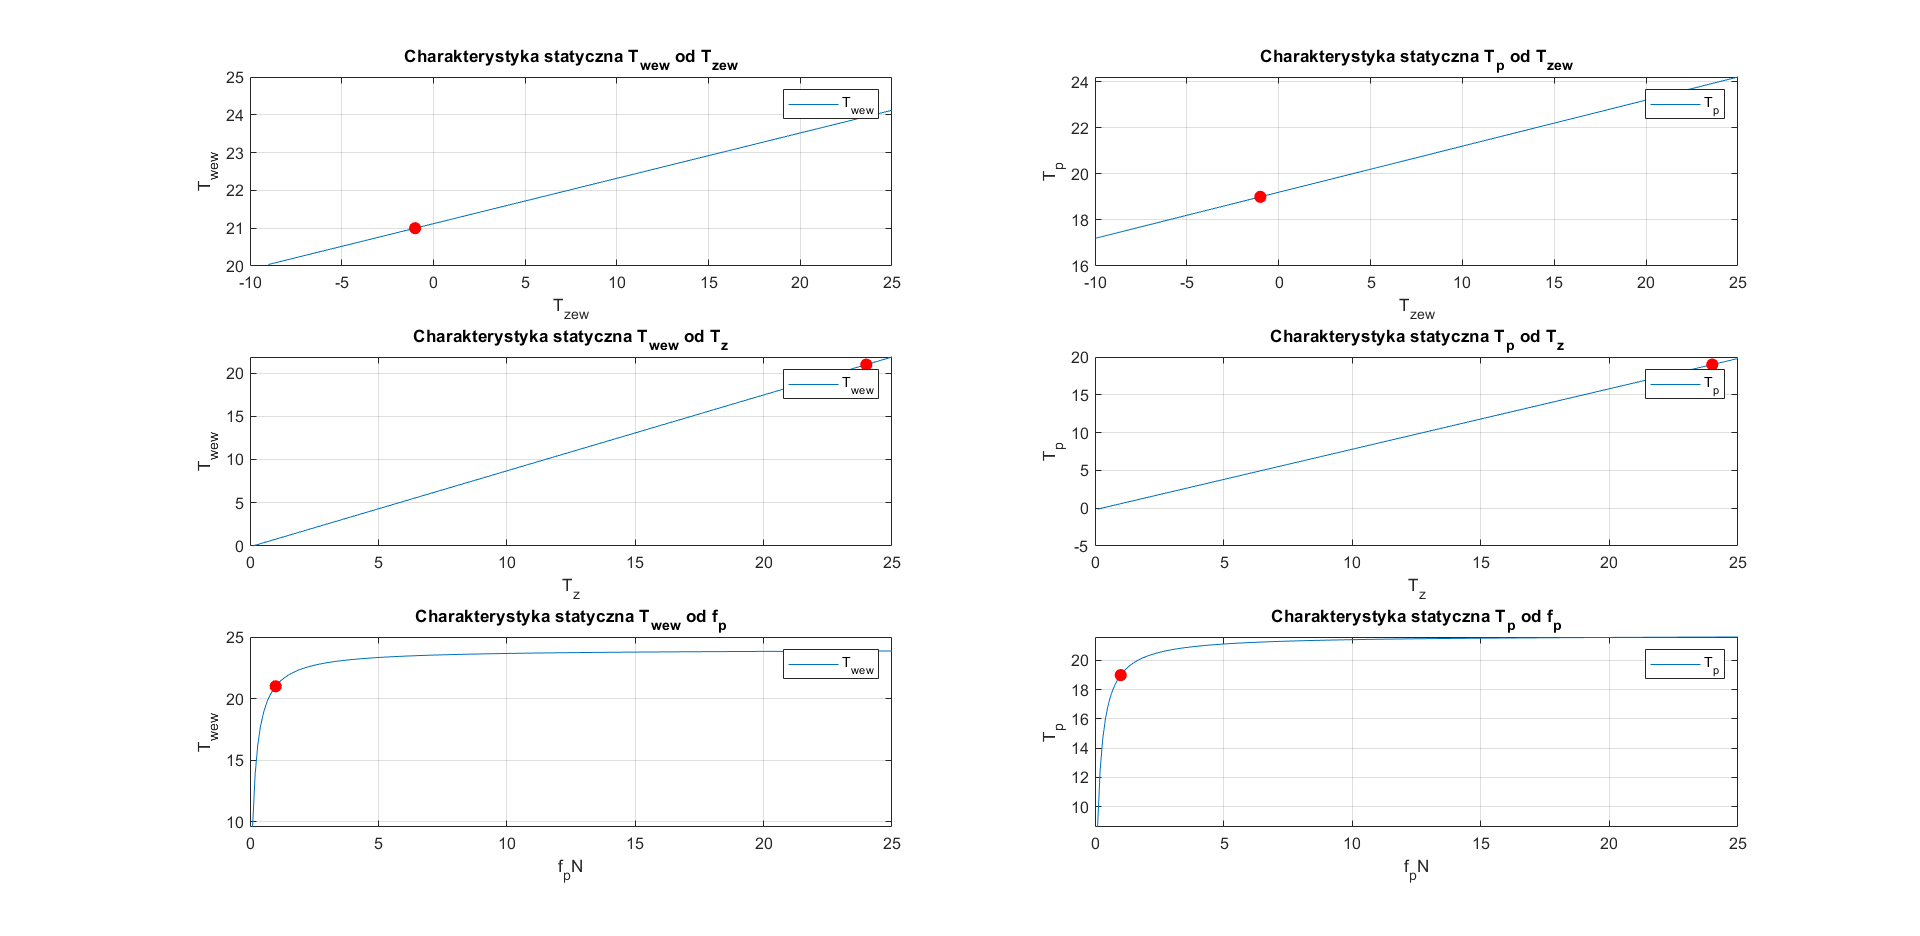
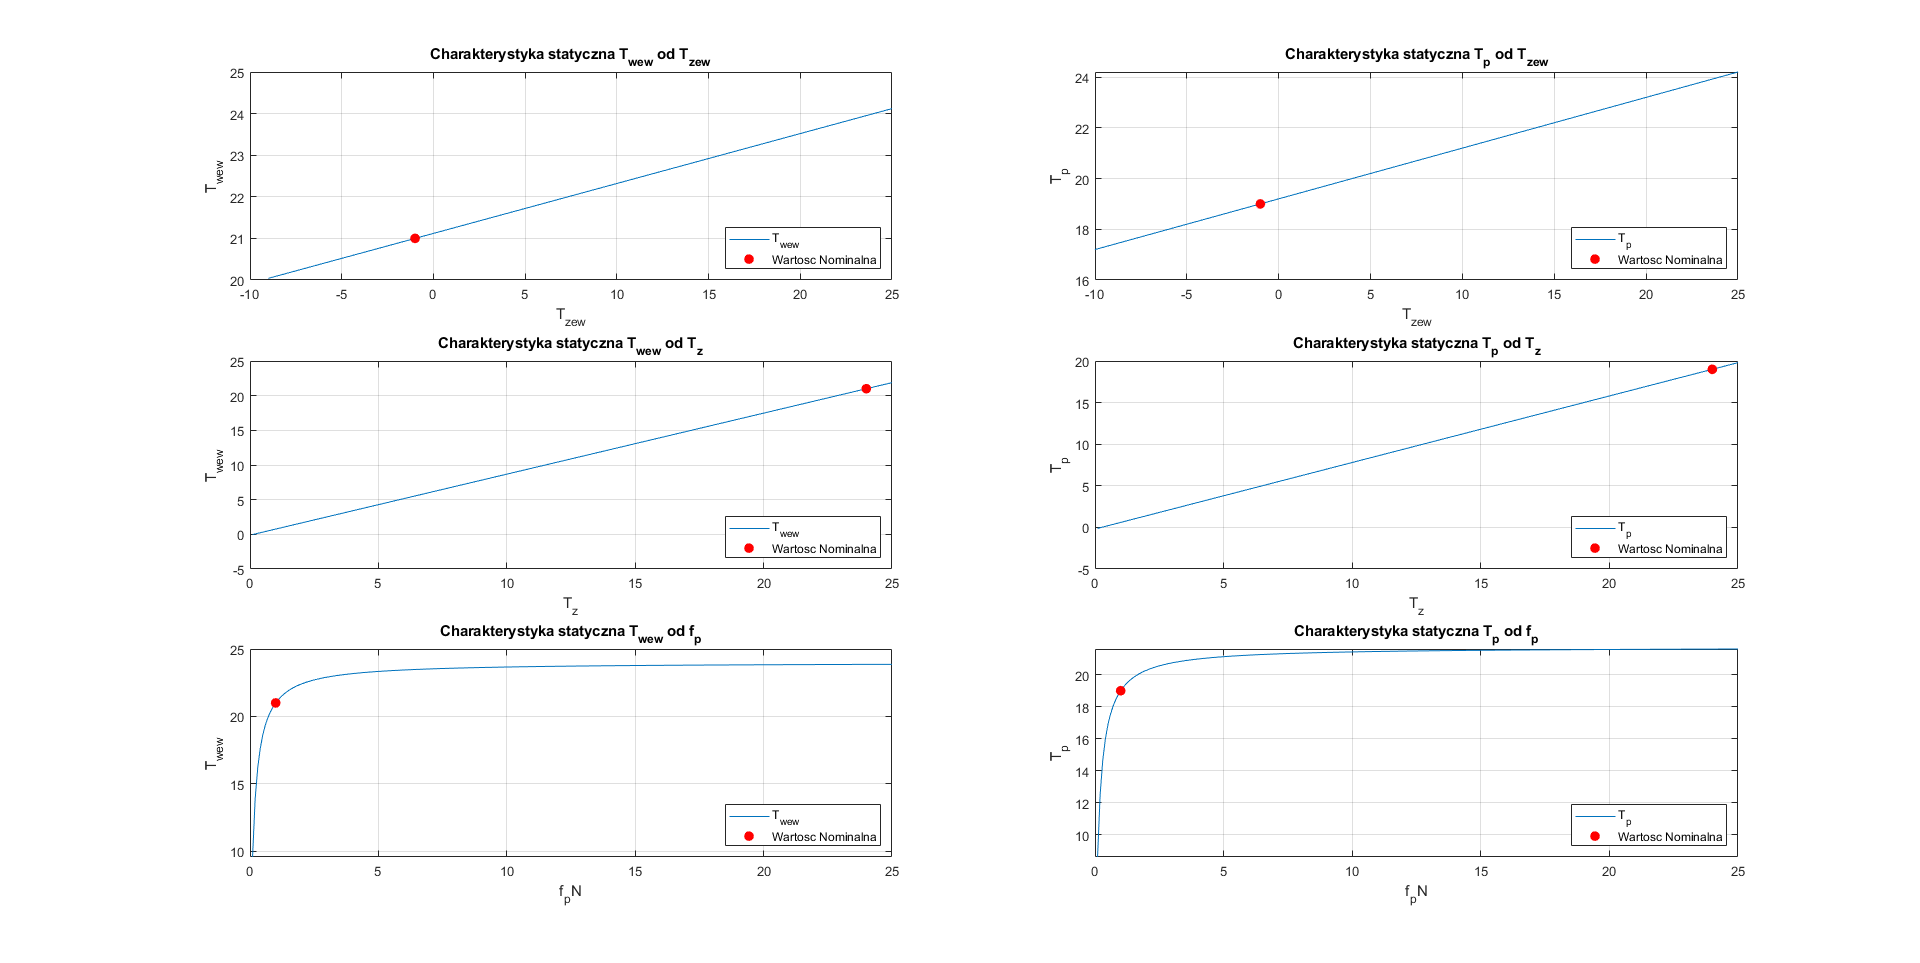
eh

diff --git a/LAB9_Start_MiniProjekt/Skrypty/my_dom_trans_script.m b/LAB9_Start_MiniProjekt/Skrypty/my_dom_trans_script.m
@@ -97,15 +97,14 @@ plot(T_p_trans)
 grid on;
 xlabel('Czas [s]')
 ylabel("T_{p} [^{\circ}C]")
-% legend('T_{wew}','T_{p}')
 title('Skok dT_{z}=5')
 hold on
 %-----------------------------------
 % T_zew
-subplot(2,2,3)
 d_T_z = 0;
 d_T_zew = 2;
 
+subplot(2,2,3)
 sim('my_dom_trans');
 plot(T_wew_trans)
 xlabel('Czas [s]')
@@ -120,7 +119,6 @@ plot(T_p_trans)
 grid on;
 xlabel('Czas [s]')
 ylabel("T_{p} [^{\circ}C]")
-% legend('T_{wew}','T_{p}')
 title('Skok dT_{zew}=2')
 hold on
 %-----------------------------------
@@ -131,8 +129,8 @@ hold on
 % Warunki poczatkowe dla syulacji w state space
 % wartosci poczatkowe2
 T_zew1 = T_zewN+5;                                                   
-T_wew1 = T_wewN+6;                                                   
-T_p1 = T_pN+3;                                                     
+T_wew1 = T_wewN;                                                   
+T_p1 = T_pN;                                                     
 f_p1 = f_pN;
 T_z1 = T_zN-3;                                                     
 M=1/(K_1+K_p);
@@ -167,17 +165,17 @@ d_T_z = 5;
 d_T_zew = 0;
 
 sim('my_dom_trans');
-plot(T_wew_trans)
+plot(T_wew_trans,'r*')
 xlabel('Czas [s]')
 ylabel("T_{wew} [^{\circ}C]")
 hold on;
 grid on
 title('Skok dT_{z}=5')
 hold on;
-legend('pkt1','pkt2')
+legend('Wartosci Nominalne','\Delta T_{z}=-3 ^{\circ}C i \Delta T_{zew}=+5 ^{\circ}C','Location','SouthEast')
 
 subplot(2,2,2)
-plot(T_p_trans)
+plot(T_p_trans,'r*')
 grid on;
 xlabel('Czas [s]')
 ylabel("T_{p} [^{\circ}C]")
@@ -185,7 +183,7 @@ ylabel("T_{p} [^{\circ}C]")
 hold on;
 title('Skok dT_{z}=5')
 hold on;
-legend('pkt1','pkt2')
+legend('Wartosci Nominalne','\Delta T_{z}=-3 ^{\circ}C i \Delta T_{zew}=+5 ^{\circ}C','Location','SouthEast')
 %-----------------------------------
 % T_zew
 subplot(2,2,3)
@@ -193,24 +191,24 @@ d_T_z = 0;
 d_T_zew = 2;
 
 sim('my_dom_trans');
-plot(T_wew_trans)
+plot(T_wew_trans,'r*')
 xlabel('Czas [s]')
 ylabel("T_{wew} [^{\circ}C]")
 hold on;
 grid on
 title('Skok dT_{zew}=2')
 hold on;
-legend('pkt1','pkt2')
+legend('Wartosci Nominalne','\Delta T_{z}=-3 ^{\circ}C i \Delta T_{zew}=+5 ^{\circ}C','Location','SouthEast')
 
 subplot(2,2,4)
-plot(T_p_trans)
+plot(T_p_trans,'r*')
 grid on;
 xlabel('Czas [s]')
 ylabel("T_{p} [^{\circ}C]")
 % legend('T_{wew}','T_{p}')
 title('Skok dT_{zew}=2')
 hold on
-legend('pkt1','pkt2')
+legend('Wartosci Nominalne','\Delta T_{z}=-3 ^{\circ}C i \Delta T_{zew}=+5 ^{\circ}C','Location','SouthEast')
 %-----------------------------------
 
 

diff --git a/LAB9_Start_MiniProjekt/Skrypty/leveled_transmitancja.m b/LAB9_Start_MiniProjekt/Skrypty/leveled_transmitancja.m
@@ -97,15 +97,14 @@ plot(T_p_trans-T_p_trans.Data(1))
 grid on;
 xlabel('Czas [s]')
 ylabel("T_{p} [^{\circ}C]")
-% legend('T_{wew}','T_{p}')
 title('Skok dT_{z}=5')
 hold on
 %-----------------------------------
 % T_zew
-subplot(2,2,3)
 d_T_z = 0;
 d_T_zew = 2;
 
+subplot(2,2,3)
 sim('my_dom_trans');
 plot(T_wew_trans-T_wew_trans.Data(1))
 xlabel('Czas [s]')
@@ -120,7 +119,6 @@ plot(T_p_trans-T_p_trans.Data(1))
 grid on;
 xlabel('Czas [s]')
 ylabel("T_{p} [^{\circ}C]")
-% legend('T_{wew}','T_{p}')
 title('Skok dT_{zew}=2')
 hold on
 %-----------------------------------
@@ -131,8 +129,8 @@ hold on
 % Warunki poczatkowe dla syulacji w state space
 % wartosci poczatkowe2
 T_zew1 = T_zewN+5;                                                   
-T_wew1 = T_wewN+6;                                                   
-T_p1 = T_pN+3;                                                     
+T_wew1 = T_wewN;                                                   
+T_p1 = T_pN;                                                     
 f_p1 = f_pN;
 T_z1 = T_zN-3;                                                     
 M=1/(K_1+K_p);
@@ -174,7 +172,7 @@ hold on;
 grid on
 title('Skok dT_{z}=5')
 hold on;
-legend('pkt1','pkt2')
+legend('Wartosci Nominalne','\Delta T_{z}=-3 ^{\circ}C i \Delta T_{zew}=+5 ^{\circ}C','Location','SouthEast')
 
 subplot(2,2,2)
 plot(T_p_trans-T_p_trans.Data(1),'r*')
@@ -185,7 +183,7 @@ ylabel("T_{p} [^{\circ}C]")
 hold on;
 title('Skok dT_{z}=5')
 hold on;
-legend('pkt1','pkt2')
+legend('Wartosci Nominalne','\Delta T_{z}=-3 ^{\circ}C i \Delta T_{zew}=+5 ^{\circ}C','Location','SouthEast')
 %-----------------------------------
 % T_zew
 subplot(2,2,3)
@@ -200,7 +198,7 @@ hold on;
 grid on
 title('Skok dT_{zew}=2')
 hold on;
-legend('pkt1','pkt2')
+legend('Wartosci Nominalne','\Delta T_{z}=-3 ^{\circ}C i \Delta T_{zew}=+5 ^{\circ}C','Location','SouthEast')
 
 subplot(2,2,4)
 plot(T_p_trans-T_p_trans.Data(1),'r*')
@@ -210,7 +208,7 @@ ylabel("T_{p} [^{\circ}C]")
 % legend('T_{wew}','T_{p}')
 title('Skok dT_{zew}=2')
 hold on
-legend('pkt1','pkt2')
+legend('Wartosci Nominalne','\Delta T_{z}=-3 ^{\circ}C i \Delta T_{zew}=+5 ^{\circ}C','Location','SouthEast')
 %-----------------------------------
 
 

diff --git a/LAB9_Start_MiniProjekt/Skrypty/leveled_state_space.m b/LAB9_Start_MiniProjekt/Skrypty/leveled_state_space.m
@@ -79,9 +79,9 @@ subplot(111)
 sim('my_dom_state_space');
 
 
-plot(T_wew_state_space-T_wew_state_space.Data(1))
+plot(T_wew_state_space)
 hold on;
-plot(T_p_state_space-T_p_state_space.Data(1))
+plot(T_p_state_space,'r*')
 grid on;
 title('Test prostej kreski, STATE SPACE')
 xlabel('Czas [s]')
@@ -148,11 +148,11 @@ hold on
 
 % Warunki poczatkowe dla syulacji w state space
 % wartosci poczatkowe2
-T_zew1 = T_zewN+4;                                                   
-T_wew1 = T_wewN-5;                                                   
+T_zew1 = T_zewN+5;                                                   
+T_wew1 = T_wewN;                                                   
 T_p1 = T_pN;                                                     
 f_p1 = f_pN;
-T_z1 = T_zN;                                                     
+T_z1 = T_zN-3;                                                     
 M=1/(K_1+K_p);
 T_wew0 = (c_p*ro_p*f_p1*T_z1+K_1*K_p*T_zew1*M +K_w*T_zew1)/(c_p*ro_p*f_p1+K_1+K_w-(K_1^2)*M);  
 T_p0 = (K_1*T_wew0+K_p*T_zew1)*M;
@@ -185,7 +185,7 @@ ylabel("T_{wew} [^{\circ}C]")
 hold on;
 grid on
 title('Skok dT_{z}=5')
-legend('Nominalne','\Delta T_{z} i \Delta T_{zew}');
+legend('Nominalne','\Delta T_{z}=-3 i \Delta T_{zew}=+5','Location','SouthEast');
 hold on;
 
 
@@ -197,7 +197,7 @@ ylabel("T_{p} [^{\circ}C]")
 % legend('T_{wew}','T_{p}')
 hold on;
 title('Skok dT_{z}=5')
-legend('Nominalne','\Delta T_{z} i \Delta T_{zew}');
+legend('Nominalne','\Delta T_{z}=-3 i \Delta T_{zew}=+5','Location','SouthEast');
 hold on;
 
 %-----------------------------------
@@ -214,7 +214,7 @@ hold on;
 grid on
 title('Skok dT_{zew}=2')
 hold on;
-legend('Nominalne','\Delta T_{z} i \Delta T_{zew}');
+legend('Nominalne','\Delta T_{z}=-3 i \Delta T_{zew}=+5','Location','SouthEast');
 
 subplot(2,2,4)
 plot(T_p_state_space-T_p_state_space.Data(1),'r*')
@@ -224,7 +224,7 @@ ylabel("T_{p} [^{\circ}C]")
 % legend('T_{wew}','T_{p}')
 title('Skok dT_{zew}=2')
 hold on
-legend('Nominalne','\Delta T_{z} i \Delta T_{zew}');
+legend('Nominalne','\Delta T_{z}=-3 i \Delta T_{zew}=+5','Location','SouthEast');
 %-----------------------------------
 
 

diff --git a/LAB9_Start_MiniProjekt/Skrypty/my_dom_statyczne.m b/LAB9_Start_MiniProjekt/Skrypty/my_dom_statyczne.m
@@ -1,5 +1,4 @@
 close all;
-clear all;
 %%%%%%%%%%%%%%%%%%%%%%%%%%%%%%%%%%%%%%%%%%%%%%%%%%%%%%%%%%%%%%%%%
 % NOMINALNE WARTOSCI
 T_zewN = -1;  % 'C
@@ -59,7 +58,7 @@ title('Charakterystyka statyczna T_{wew} od T_{zew}');
 hold on;
 plot(T_zewN, T_wewN, 'r.','Markersize',25);
 grid on;
-legend("T_{wew}")
+legend("T_{wew}","Wartosc Nominalna",'Location','SouthEast')
 
 
 T_zew1 = T_zewN;                                                   
@@ -81,7 +80,7 @@ hold on;
 plot(T_zN, T_wewN, 'r.','Markersize',25);
 title('Charakterystyka statyczna T_{wew} od T_{z}');
 grid on;
-legend("T_{wew}")
+legend("T_{wew}","Wartosc Nominalna",'Location','SouthEast')
 
 T_zew1 = T_zewN;                                                   
 T_wew1 = T_wewN;                                                   
@@ -102,7 +101,7 @@ hold on;
 plot(f_pN, T_wewN, 'r.','Markersize',25);
 title('Charakterystyka statyczna T_{wew} od f_{p}');
 grid on;
-legend("T_{wew}")
+legend("T_{wew}","Wartosc Nominalna",'Location','SouthEast')
 
 T_zew1 = T_zewN;                                                   
 T_wew1 = T_wewN;                                                   
@@ -124,7 +123,7 @@ title('Charakterystyka statyczna T_{p} od T_{zew}');
 hold on;
 plot(T_zewN, T_pN, 'r.','Markersize',25);
 grid on;
-legend("T_{p}")
+legend('T_{p}','Wartosc Nominalna','Location','SouthEast')
 
 T_zew1 = T_zewN;                                                   
 T_wew1 = T_wewN;                                                   
@@ -144,7 +143,7 @@ hold on;
 plot(T_zN, T_pN, 'r.','Markersize',25);
 title('Charakterystyka statyczna T_{p} od T_{z}');
 grid on;
-legend("T_{p}")
+legend('T_{p}','Wartosc Nominalna','Location','SouthEast')
 
 subplot(326);
 T_zew1 = T_zewN;                                                   
@@ -164,6 +163,6 @@ hold on;
 plot(f_pN, T_pN, 'r.','Markersize',25);
 title('Charakterystyka statyczna T_{p} od f_{p}');
 grid on;
-legend("T_{p}")
+legend('T_{p}','Wartosc Nominalna','Location','SouthEast')
 
 

diff --git a/LAB9_Start_MiniProjekt/Skrypty/my_dom_state_space_script.m b/LAB9_Start_MiniProjekt/Skrypty/my_dom_state_space_script.m
@@ -78,7 +78,7 @@ sim('my_dom_state_space');
 
 plot(T_wew_state_space)
 hold on;
-plot(T_p_state_space)
+plot(T_p_state_space,'r*')
 grid on;
 title('Test prostej kreski, STATE SPACE')
 xlabel('Czas [s]')
@@ -184,7 +184,7 @@ hold on;
 grid on
 title('Skok dT_{z}=5')
 hold on;
-legend('Nominalne','\Delta T_{z} i \Delta T_{zew}');
+legend('Nominalne','\Delta T_{z}=-3 i \Delta T_{zew}=+5','Location','SouthEast');
 
 subplot(2,2,2)
 plot(T_p_state_space,'r*')
@@ -195,7 +195,7 @@ ylabel("T_{p} [^{\circ}C]")
 hold on;
 title('Skok dT_{z}=5')
 hold on;
-legend('Nominalne','\Delta T_{z} i \Delta T_{zew}');
+legend('Nominalne','\Delta T_{z}=-3 i \Delta T_{zew}=+5','Location','SouthEast');
 %-----------------------------------
 % T_zew
 subplot(2,2,3)
@@ -210,7 +210,7 @@ hold on;
 grid on
 title('Skok dT_{zew}=2')
 hold on;
-legend('Nominalne','\Delta T_{z} i \Delta T_{zew}');
+legend('Nominalne','\Delta T_{z}=-3 i \Delta T_{zew}=+5','Location','SouthEast');
 
 subplot(2,2,4)
 plot(T_p_state_space,'r*')
@@ -220,7 +220,7 @@ ylabel("T_{p} [^{\circ}C]")
 % legend('T_{wew}','T_{p}')
 title('Skok dT_{zew}=2')
 hold on
-legend('Nominalne','\Delta T_{z} i \Delta T_{zew}');
+legend('Nominalne','\Delta T_{z}=-3 i \Delta T_{zew}=+5','Location','SouthEast');
 %-----------------------------------
 
 
